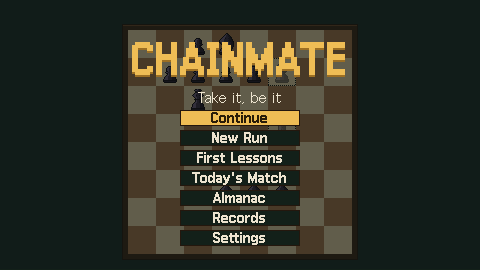
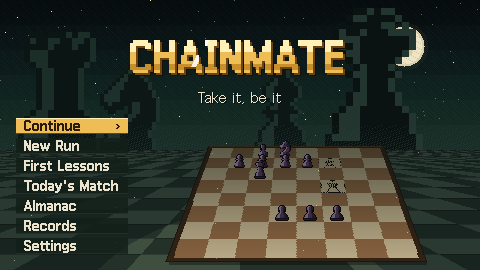
타이틀을 달빛 아래의 기원으로 다시 그렸다 — 밤하늘 · 달 · 거대한 기물 실루엣 · 원근 바닥에, 시연 판을 바닥 위에 눕히고 기물은 세워 두어 메인 화면이 멋지게(연기 시험은 다시 부팅 때 앞 앱의 듣개를 끊는다)

diff --git a/src/ui/screens/title.js b/src/ui/screens/title.js
@@ -1,20 +1,145 @@
-// 타이틀: 큰 도트 글자, 새 판 · 이어 하기 · 첫 수업 · 설정. 뒤로 흐린 판에서 풀이기가 실제 규칙 · 실제 연출로 사슬을 계속 둔다(소리 없음).
+// 타이틀: 달빛 아래의 기원. 밤하늘 · 별 · 달 · 멀리 거대한 기물 실루엣 · 안개 · 원근 체스 바닥(한 번 그려 캐시),
+// 그 바닥 위에 눕힌 판에서 풀이기가 실제 규칙 · 실제 연출로 사슬을 계속 둔다(소리 없음). 반딧불 · 로고 빛 · 시연만 매 프레임.
 import { PAL } from '../../render/palette.js';
-import { W, H, text, rect } from '../../render/gfx.js';
-import { button } from '../ui.js';
+import { W, H, text, rect, sprite } from '../../render/gfx.js';
+import { makeCanvas, context } from '../../render/surface.js';
+import { spritePixels } from '../../render/sprites.js';
+import { textImage } from '../../render/text.js';
+import { L } from '../lang.js';
 import { createBattle, apply } from '../../sim/battle.js';
 import { bestMove } from '../../sim/solver.js';
 import { Fx } from '../anim.js';
-import { BattleScreen } from './battle.js';
+import { BattleScreen, BX, BY, S } from './battle.js';
 
 // 시연 판이 그리는 구역은 버린다(메뉴 뒤라 누를 수 없다)
 const NO_UI = { region() {}, isHover: () => false, hover: null };
+const HOR = 150;
+
+// ── 정적 배경(한 번)
+let backdrop = null;
+function drawBackdrop() {
+  const c = makeCanvas(W, H), g = context(c);
+  const sky = ['#070c0e', '#0a1214', '#0d181a', '#10201f', '#132722', '#172d26'];
+  for (let y = 0; y < HOR; y++) {
+    const u = (y / HOR) * sky.length, k = Math.min(sky.length - 1, Math.floor(u)), f = u % 1;
+    g.fillStyle = sky[k]; g.fillRect(0, y, W, 1);
+    if (k + 1 < sky.length) { g.fillStyle = sky[k + 1]; for (let x = y % 2; x < W; x += 2) if (((x * 7 + y * 3) % 10) / 10 < f) g.fillRect(x, y, 1, 1); }
+  }
+  let s = 7;
+  const rnd = () => (s = (s * 16807) % 2147483647) / 2147483647;
+  for (let i = 0; i < 90; i++) { const x = Math.floor(rnd() * W), y = Math.floor(rnd() * (HOR - 20)); g.fillStyle = rnd() < 0.2 ? '#fff1b8' : '#5d6f68'; g.fillRect(x, y, 1, 1); }
+  // 달(크레이터)과 옅은 달무리
+  const MX = 404, MY = 46, MR = 20;
+  for (let y = -MR - 8; y <= MR + 8; y++) for (let x = -MR - 8; x <= MR + 8; x++) {
+    const d = Math.hypot(x, y);
+    if (d <= MR) { g.fillStyle = d > MR - 2 ? '#d9cfae' : (x * 3 + y * 5) % 11 === 0 ? '#cfc4a0' : '#eee5c7'; g.fillRect(MX + x, MY + y, 1, 1); }
+    else if (d < MR + 8 && (x + y) % 2 === 0 && d < MR + 8 - (d - MR)) { g.fillStyle = 'rgba(238,229,199,0.08)'; g.fillRect(MX + x, MY + y, 1, 1); }
+  }
+  for (const [x, y, r] of [[-6, -4, 4], [5, 6, 3], [8, -8, 2]]) for (let j = -r; j <= r; j++) for (let i = -r; i <= r; i++) if (i * i + j * j <= r * r) { g.fillStyle = '#d6cba8'; g.fillRect(MX + x + i, MY + y + j, 1, 1); }
+  // 멀리 거대한 기물 실루엣(달 쪽 가장자리에 빛)
+  const sil = (t, x, y, sc, col, rim) => { for (const [i, j, k] of spritePixels(t)) { g.fillStyle = (k === 'h' || (k === 'o' && i > 8)) && rim ? rim : col; g.fillRect(x + i * sc, y + j * sc, sc, sc); } };
+  sil('R', 12, 26, 6, '#0b1513', '#1c2e28');
+  sil('K', 318, 8, 7, '#0a1311', '#22362f');
+  sil('N', 96, 66, 4, '#0d1816', '#1d302a');
+  sil('B', 250, 70, 4, '#0d1816', '#1d302a');
+  // 지평선 안개
+  for (let y = HOR - 26; y < HOR; y++) for (let x = y % 2; x < W; x += 2) if (((x + y * 3) % 7) < (y - (HOR - 26)) / 6) { g.fillStyle = 'rgba(46,64,60,0.5)'; g.fillRect(x, y, 1, 1); }
+  // 원근 체스 바닥
+  const N = 12;
+  for (let j = 0; j < N; j++) {
+    const y0 = HOR + Math.round(120 * Math.pow(j / N, 1.7)), y1 = HOR + Math.round(120 * Math.pow((j + 1) / N, 1.7));
+    for (let y = y0; y < y1; y++) {
+      const w = 6 + (y - HOR) * 0.9;
+      let x = 0;
+      while (x < W) {
+        const k = Math.floor((x - 240) / w + 100);
+        const light = (k + j) % 2 === 0;
+        const glow = Math.max(0, 1 - Math.abs(x - 240) / 260) * Math.max(0, (y - HOR) / 120);
+        g.fillStyle = light ? (glow > 0.45 ? '#3e4f40' : '#2a3a33') : (glow > 0.45 ? '#233129' : '#18241f');
+        g.fillRect(x, y, 1, 1);
+        x++;
+      }
+    }
+    g.fillStyle = 'rgba(0,0,0,0.25)'; g.fillRect(0, y0, W, 1);
+  }
+  return c;
+}
+
+// ── 로고: 금빛 3단 명암 + 어두운 그림자(한 번). 몇 초마다 빛이 한 번 스친다
+let logo = null;
+function drawLogo() {
+  const s = L('체인메이트'), sc = 3;
+  const img = textImage(s, '#ffffff', true);
+  const w = img.w * sc + 4, h = img.h * sc + 4;
+  const c = makeCanvas(w, h), g = context(c);
+  const put = (col, dx, dy) => { const t = textImage(s, col, true); g.drawImage(t.c, dx, dy, t.c.width * sc, t.h * sc); };
+  put('#1a0f05', 3, 3); put('#6b4410', 2, 2);
+  // 몸: 위 금빛 · 가운데 금 · 아래 짙은 금(글자 모양 안에만)
+  const body = makeCanvas(w, h), b = context(body);
+  const t = textImage(s, '#efbd55', true);
+  b.drawImage(t.c, 0, 0, t.c.width * sc, t.h * sc);
+  b.globalCompositeOperation = 'source-atop';
+  const top = 3 * sc, mid = 7 * sc;
+  b.fillStyle = '#fff1b8'; b.fillRect(0, 0, w, top + sc);
+  b.fillStyle = '#efbd55'; b.fillRect(0, top + sc, w, mid - top);
+  b.fillStyle = '#c8902c'; b.fillRect(0, mid + sc, w, h);
+  b.fillStyle = '#efbd55'; b.fillRect(0, mid + sc * 3, w, h);
+  g.drawImage(body, 0, 0);
+  return { c, body, w, h };
+}
+let glint = null;
+let shadeCv = null;
+function logoGlint(p) {
+  const L0 = logo;
+  if (!glint) glint = makeCanvas(L0.w, L0.h);
+  const g = context(glint);
+  g.clearRect(0, 0, L0.w, L0.h);
+  g.globalCompositeOperation = 'source-over';
+  g.drawImage(L0.body, 0, 0);
+  g.globalCompositeOperation = 'source-atop';
+  const x = Math.round(-30 + p * (L0.w + 60));
+  g.fillStyle = 'rgba(255,255,255,0.85)';
+  for (let y = 0; y < L0.h; y++) g.fillRect(x - Math.floor(y * 0.5), y, 5, 1);
+  g.globalCompositeOperation = 'source-over';
+  return glint;
+}
+
+// ── 눕힌 판: 시연 판을 오프스크린에 그리고 한 줄씩 원근으로 옮긴다(먼 줄은 좁고 촘촘하게)
+const SRC = { x: BX - 6, y: BY - 6, w: S * 8 + 12, h: S * 8 + 12 };
+const DST = { cx: 296, top: 146, bot: 262, wTop: 176, wBot: 262 };
+const ROWS = (() => {
+  const out = [];
+  const n = DST.bot - DST.top;
+  const iT = 1 / DST.wTop, iB = 1 / DST.wBot;
+  for (let k = 0; k < n; k++) {
+    const t = (k + 0.5) / n;
+    const w = DST.wTop + (DST.wBot - DST.wTop) * t;
+    const v = (iT - 1 / w) / (iT - iB);
+    out.push({ y: DST.top + k, w: Math.round(w), sy: Math.min(SRC.h - 1, Math.floor(v * SRC.h)), shade: 0.45 * (1 - t) });
+  }
+  return out;
+})();
+
+// 판 그림 속 한 점(판 캔버스 좌표) → 화면 위 자리와 그 줄의 배율
+function project(bx, by) {
+  const v = Math.max(0, Math.min(1, by / SRC.h));
+  const iT = 1 / DST.wTop, iB = 1 / DST.wBot;
+  const w = 1 / (iT - v * (iT - iB));
+  const t = (w - DST.wTop) / (DST.wBot - DST.wTop);
+  const y = DST.top + t * (DST.bot - DST.top);
+  const s = w / SRC.w;
+  return { x: DST.cx + (bx - SRC.w / 2) * s, y, s };
+}
 
 export class TitleScreen {
   constructor(app) {
     this.app = app;
     this.round = 0;
+    this.sel = 0;
     this.newBoard();
+    if (!backdrop) backdrop = drawBackdrop();
+    logo = null;
+    this.boardCv = makeCanvas(SRC.w, SRC.h);
   }
   newBoard() {
     const k = this.round++;
@@ -42,33 +167,96 @@ export class TitleScreen {
     this.fx.update(dt * this.app.speed());
     if ((this.rest -= dt) <= 0 && !this.demo.busy) { this.rest = this.line && this.line.length ? 0.35 : 0; this.step(); }
   }
-  draw(ctx, ui) {
+  items() {
     const app = this.app;
-    this.demo.drawBoard(ctx, NO_UI);
-    this.fx.draw(ctx, 1);
-    // 메뉴 뒤라 어둡게 덮는다
-    ctx.globalAlpha = 0.6;
-    rect(ctx, 0, 0, W, H, PAL.shadow);
-    ctx.globalAlpha = 1;
-    text(ctx, '체인메이트', W / 2, 44, PAL.goldDk, { align: 'center', bold: true, scale: 3 });
-    text(ctx, '체인메이트', W / 2, 42, PAL.gold, { align: 'center', bold: true, scale: 3, shadow: null });
-    text(ctx, '적을 삼켜, 적이 되어라', W / 2, 92, PAL.ink, { align: 'center' });
     const has = app.hasSave();
     const items = [];
-    if (has) items.push(['title:continue', '이어 하기', () => app.continueRun(), 'gold']);
+    if (has) items.push(['title:continue', '이어 하기', () => app.continueRun()]);
     // 처음 켰으면(기록이 비었으면) 새 판은 첫 수업부터
     const first = !app.records.lessonsDone && app.records.runs === 0;
-    items.push(['title:new', '새 판', () => (first ? app.go('lesson') : app.go('setup')), has ? 'plain' : 'gold']);
-    items.push(['title:lesson', '첫 수업', () => app.go('lesson'), 'plain']);
-    items.push(['title:daily', '오늘의 대국', () => app.newRun({ daily: true }), 'plain']);
-    items.push(['title:codex', '도감', () => app.go('codex'), 'plain']);
-    items.push(['title:records', '기록', () => app.go('records'), 'plain']);
-    items.push(['title:settings', '설정', () => app.openOverlay('settings'), 'plain']);
-    const bw = 120, bh = 16, x = (W - bw) / 2;
-    items.forEach(([id, label, fn, tone], i) => button(ctx, ui, id, x, 110 + i * 20, bw, bh, label, { onClick: fn, tone }));
-    rect(ctx, 0, H - 1, W, 1, PAL.feltDk);
+    items.push(['title:new', '새 판', () => (first ? app.go('lesson') : app.go('setup'))]);
+    items.push(['title:lesson', '첫 수업', () => app.go('lesson')]);
+    items.push(['title:daily', '오늘의 대국', () => app.newRun({ daily: true })]);
+    items.push(['title:codex', '도감', () => app.go('codex')]);
+    items.push(['title:records', '기록', () => app.go('records')]);
+    items.push(['title:settings', '설정', () => app.openOverlay('settings')]);
+    return items;
+  }
+  draw(ctx, ui) {
+    const app = this.app, time = app.time;
+    ctx.drawImage(backdrop, 0, 0);
+    this.drawDemo(ctx);
+    // 반딧불 불티: 천천히 떠오르며 깜빡인다
+    for (let i = 0; i < 24; i++) {
+      const sx = (i * 97 + 13) % W, sy = 262 - ((i * 53 + time * (6 + (i % 5))) % 150);
+      const x = Math.round(sx + Math.sin(time * 0.7 + i) * 6);
+      const a = 0.35 + 0.45 * Math.max(0, Math.sin(time * 1.3 + i * 2.1));
+      ctx.globalAlpha = a; rect(ctx, x, Math.round(sy), 1, 1, PAL.goldHi); ctx.globalAlpha = 1;
+    }
+    // 로고와 한마디
+    if (!logo) logo = drawLogo();
+    const lx = Math.round(W / 2 - logo.w / 2), ly = 40;
+    ctx.drawImage(logo.c, lx, ly);
+    const cyc = time % 5;
+    if (cyc < 0.9) ctx.drawImage(logoGlint(cyc / 0.9), lx, ly);
+    text(ctx, '잡으면 그것이 된다', W / 2, 92, PAL.ink, { align: 'center', shadow: PAL.shadow });
+    // 메뉴(왼쪽 아래): 고른 단추는 금빛 + 「›」, 나머지는 반투명 어두운 판
+    const items = this.items();
+    const hot = items.findIndex(([id]) => ui.isHover(id));
+    if (hot >= 0) this.sel = hot;
+    this.sel = Math.min(this.sel, items.length - 1);
+    const bw = 112, bh = 16, x = 16, y0 = H - 12 - items.length * 20;
+    items.forEach(([id, label, fn], i) => {
+      const y = y0 + i * 20;
+      ui.region(id, x, y, bw, bh, { onClick: fn });
+      const on = i === this.sel;
+      const oy = on && ui.press && ui.press.id === id ? 1 : 0;
+      if (on) { rect(ctx, x, y + oy, bw, bh, PAL.gold); rect(ctx, x, y + bh - 1 + oy, bw, 1, '#6b4410'); rect(ctx, x, y + oy, bw, 1, PAL.goldHi); }
+      else { ctx.globalAlpha = 0.85; rect(ctx, x, y, bw, bh, '#132019'); ctx.globalAlpha = 1; rect(ctx, x, y + bh - 1, bw, 1, PAL.frame); }
+      text(ctx, label, x + 8, y + 2 + oy, on ? PAL.linkInk : PAL.ink, { bold: true });
+      if (on) text(ctx, '›', x + bw - 12, y + 2 + oy, PAL.linkInk, { bold: true });
+    });
+  }
+  // 시연 판을 바닥 위로(원근). 먼 줄일수록 밤빛에 잠긴다
+  drawDemo(ctx) {
+    const g = context(this.boardCv);
+    g.clearRect(0, 0, SRC.w, SRC.h);
+    g.save();
+    g.translate(-SRC.x, -SRC.y);
+    const sink = [];
+    this.demo.pieceSink = sink;
+    this.demo.drawBoard(g, NO_UI);
+    this.demo.pieceSink = null;
+    this.fx.draw(g, 1);
+    g.restore();
+    // 판 그림자
+    ctx.globalAlpha = 0.35;
+    rect(ctx, DST.cx - DST.wBot / 2 + 4, DST.bot, DST.wBot - 4, 3, '#000000');
+    ctx.globalAlpha = 1;
+    for (const r of ROWS) {
+      const x = Math.round(DST.cx - r.w / 2);
+      ctx.drawImage(this.boardCv, 0, r.sy, SRC.w, 1, x, r.y, r.w, 1);
+    }
+    // 먼 쪽 어둠(한 번 그려 둔 덮개)
+    if (!shadeCv) {
+      shadeCv = makeCanvas(W, H);
+      const g2 = context(shadeCv);
+      for (const r of ROWS) { g2.globalAlpha = 0.18 + r.shade; g2.fillStyle = '#0a1311'; g2.fillRect(Math.round(DST.cx - r.w / 2), r.y, r.w, 1); }
+    }
+    ctx.drawImage(shadeCv, 0, 0);
+    // 기물은 눕힌 판 위에 세워서(먼 것부터, 멀수록 작게)
+    const placed = sink.map((p) => ({ ...p, at: project(p.x + 8 - SRC.x, p.y + 21 - SRC.y) })).sort((a, b) => a.at.y - b.at.y);
+    for (const p of placed) {
+      const { x, y, s } = p.at;
+      const sc = Math.max(0.6, s);
+      const sx = (p.opts.sx ?? 1) * sc, sy = sc;
+      sprite(ctx, p.type, p.side, Math.round(x - 8), Math.round(y - 21), { ...p.opts, sx, sy });
+    }
   }
   key(k) {
-    if (k === 'Enter' || k === ' ') { if (!this.app.continueRun()) this.app.go(!this.app.records.lessonsDone && this.app.records.runs === 0 ? 'lesson' : 'setup'); }
+    const items = this.items();
+    if (k === 'ArrowDown') { this.sel = (this.sel + 1) % items.length; this.app.sfx('pick'); }
+    else if (k === 'ArrowUp') { this.sel = (this.sel + items.length - 1) % items.length; this.app.sfx('pick'); }
+    else if (k === 'Enter' || k === ' ') items[Math.min(this.sel, items.length - 1)][2]();
   }
 }

diff --git a/src/ui/screens/battle.js b/src/ui/screens/battle.js
@@ -790,7 +790,7 @@ export class BattleScreen {
         let alpha = 1;
         if (v.cut && v.cut.sq === sq) alpha = 1 - v.cut.p;
         const lk = side === 'w' ? this.look(c.t, time) : {};
-        sprite(ctx, c.t, side, x + 6, y + 3 + dy, { sx, alpha, ...lk });
+        this.putPiece(ctx, c.t, side, x + 6, y + 3 + dy, { sx, alpha, ...lk });
         continue;
       }
       let dy = 0;
@@ -805,7 +805,7 @@ export class BattleScreen {
         ctx.globalAlpha = 0.25; rect(ctx, x, y, S, S, PAL.red); ctx.globalAlpha = 1;
         hatch(ctx, x, y, PAL.redDk);
       }
-      sprite(ctx, c.t, c.gold ? 'g' : 'b', x + 6, y + 3 + dy);
+      this.putPiece(ctx, c.t, c.gold ? 'g' : 'b', x + 6, y + 3 + dy);
       if (c.gold) {
         const k = Math.floor(time * 8 + sq) % 12;
         if (k < 3) rect(ctx, x + 8 + k * 4, y + 4 + k * 3, 1, 1, PAL.goldHi);
@@ -815,7 +815,7 @@ export class BattleScreen {
     // 움직이는 내 기물
     if (v.mover) {
       const m = moverXY(v.mover.form, v.mover.from, v.mover.to, v.mover.p);
-      sprite(ctx, v.mover.form, 'w', m.x + 6, m.y + 3, this.look(v.mover.form, time));
+      this.putPiece(ctx, v.mover.form, 'w', m.x + 6, m.y + 3, this.look(v.mover.form, time));
     }
     // 노림수: 내 기물을 노리는 적에서 붉은 끊어진 선이 내 기물 쪽으로 흐른다(먹을 수 없는 적은 어두운 붉은색).
     // 붙어 있는 적이 많아 기물 위에 긋되, 양 끝은 기물 몸을 비켜 칸 가장자리 쪽만
@@ -845,6 +845,12 @@ export class BattleScreen {
       const { x, y } = sqXY(v.chain.sq);
       if (Math.floor(time * 6) % 2 === 0) frame(ctx, x, y, S, S, PAL.red, 2);
     }
+  }
+
+  // 판 위 기물 하나. pieceSink가 있으면 그리지 않고 모은다(타이틀이 눕힌 판 위에 세워 그린다)
+  putPiece(ctx, type, side, x, y, opts = {}) {
+    if (this.pieceSink) this.pieceSink.push({ type, side, x, y, opts });
+    else sprite(ctx, type, side, x, y, opts);
   }
 
   drawReach(ctx, form, from) {

diff --git a/src/ui/screens/chest.js b/src/ui/screens/chest.js
@@ -19,7 +19,7 @@ export function chestItemText(it) {
 function drawItem(ctx, it, x, y) {
   if (it.kind === 'money') { rect(ctx, x + 4, y + 4, 12, 12, PAL.gold); rect(ctx, x + 6, y + 6, 8, 8, PAL.goldDk); text(ctx, '$', x + 10, y + 3, PAL.goldHi, { align: 'center', bold: true }); }
   else if (it.kind === 'chart') sprite(ctx, it.form, 'b', x + 2, y - 2);
-  else if (it.kind === 'engrave') sprite(ctx, it.piece, 'w', x + 2, y - 2);
+  else if (it.kind === 'engrave') sprite(ctx, it.piece, 'w', x + 2, y - 2, { eng: it.eng });
   else shardIcon(ctx, x + 2, y + 2);
 }
 const SPIN = [{ kind: 'money', money: 2 }, { kind: 'chart', form: 'N' }, { kind: 'engrave', piece: 'P', eng: 'gold' }, { kind: 'chart', form: 'Q' }, { kind: 'chart', form: 'R' }];
